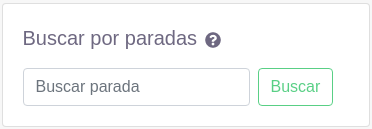
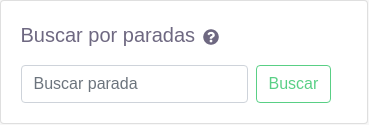
update changes

diff --git a/src/pages/Documentacao/index.js b/src/pages/Documentacao/index.js
@@ -26,10 +26,10 @@ export default function Documentacao(){
                     <ul style={{
                         margin: 10
                     }}>
-                        <li>Buscar por linhas: informando o número da linha ou o nome do terminal principal ou secundário neste campo, o usuário é direcionado para /linhas.</li>
+                        <li>Buscar por linhas: informando o número da linha ou o nome do terminal principal ou secundário neste campo, o usuário é direcionado para /linhas. Nessa rota, as linhas serão listadas e, ao clicar em uma delas, todas as paradas atendidas por ela são informadas.</li>
                         <Image style={{
                             marginTop: 20,
-                            marginBottom: 20 
+                            marginBottom: 20,
                         }} fluid src={buscarLinhas}/>
                         <li>Buscar por paradas: informando o nome ou endereço da parada, o usuário é direcionado para /paradas, onde terá acesso a uma lista de paradas filtradas pela informação pela qual ele buscou. O usuária ainda será capaz de fazer um filtro na lista gerada digitando o nome ou edereço da parada no campo localizado acima da lista.</li>
                         <Image style={{
@@ -56,7 +56,7 @@ export default function Documentacao(){
                             marginTop: 20,
                             marginBottom: 20 
                         }} fluid src={buscarparada}/>
-                        <li>Calcular previsão de chegada: ao buscar pelo nome ou endereço da parada, as paradas correspondentes a esse filtro serão exibidas no mapa. Clicando no ícone da parada no mapa, será mostrado o nome da parada, se houver. O usuário também pode buscar paradas por linha ou corredor, clicando no botão "filtrar". Ao clicar em ocultar, as paradas serão ocultadas do mapa e clicando novamente serão exibidas. O botão deletar exclui a busca.</li>
+                        <li>Calcular previsão de chegada: aqui, há duas possibilidades: buscar a previsão de chegada de todos os ônibus em uma determinada parada (Selecionar por parada) ou buscar apenas os ônibus de uma determinada linha (Selecionar por parada e linha). Selecionando uma das opções e fornecendo corretamente os dados de busca, o usuário verá no mapa a posição da parada e de cada ônibus no horário da atualização. As posições atualizam a cada 30 segundos ou quando o botão de atualizar é acionado. O botão deletar limpa as informações da busca. Clicando no ícone do ônibus no mapa, serão mostradas as informações daquele ônibus e linha e o horário previsto para chegar na parada.</li>
                         <Image style={{
                             marginTop: 20,
                             marginBottom: 20 
@@ -65,10 +65,15 @@ export default function Documentacao(){
                 <p></p>
                 <h3>Componentização</h3>                
                 <p>A seguir são detalhados os principais componentes da aplicação.</p>
+                <h4>Base</h4>
                 <Image style={{
                             marginTop: 20,
                             marginBottom: 20 
                         }} fluid src={comp1}/>
+                <h4>Pages</h4>
+                <h4>Layouts</h4>
+                <h4>Services</h4>
+                
                 <Image style={{
                             marginTop: 20,
                             marginBottom: 20 

diff --git a/src/pages/Home/components/Informacoes/index.js b/src/pages/Home/components/Informacoes/index.js
@@ -14,10 +14,11 @@ export default function Informacoes() {
                 <JumbotronComponent/>
          
                 <Row style={{
-                    width: "100%",             
+                    width:"100%"
                 }}>
                 <Col
-                    md={4}
+                    lg={4}
+                    md={12}
                     sm={12}
                 >
                 <CardSearch
@@ -29,7 +30,8 @@ export default function Informacoes() {
                 />
                 </Col>
                 <Col
-                    md={4}
+                    lg={4}
+                    md={12}
                     sm={12}
                 >
                 <CardSearch
@@ -41,7 +43,8 @@ export default function Informacoes() {
                 />
                 </Col>
                 <Col
-                    md={4}
+                    lg={4}
+                    md={12}
                     sm={12}
                 >
                 <CardDropdown

diff --git a/src/pages/Home/components/Mapa/components/BuscarOnibus/components/Map/index.js b/src/pages/Home/components/Mapa/components/BuscarOnibus/components/Map/index.js
@@ -1,11 +1,23 @@
-import React from 'react';
+import React, { useEffect, useRef } from 'react';
 import { Map, TileLayer } from 'react-leaflet';
 import Veiculos from './components/Veiculos';
 
 export default function MapComponent(props) {
     const { veiculos } = props;
+
+    const mapRef = useRef();
+    const didMountRef = useRef(false) 
+    useEffect(() => {
+        if (didMountRef.current) { 
+        if (mapRef.current) {
+            mapRef.current.leafletElement.invalidateSize(false);
+        }
+        } 
+        else didMountRef.current = true
+    })
+
     return (
-        <Map center={[-23.692865, -46.77835]} zoom={12} >
+        <Map center={[-23.692865, -46.77835]} zoom={12} ref={mapRef} >
             <TileLayer
                 attribution='&amp;copy <a href="http://osm.org/copyright">OpenStreetMap</a> contributors'
                 url="https://{s}.tile.openstreetmap.org/{z}/{x}/{y}.png"

diff --git a/src/pages/Corredores/index.js b/src/pages/Corredores/index.js
@@ -25,7 +25,7 @@ export default function Corredores(props) {
     function onChange(e){
         setValue(e.target.value);
         if (e.target.value.length > 0) {
-            setFiltro(paradas.filter(item => { return item.np.match(e.target.value) || item.ed.toLowerCase().match(e.target.value.toLowerCase()) || String(item.cp).match(e.target.value) }))
+            setFiltro(paradas.filter(item => { return item.np.toLowerCase().match(e.target.value.toLowerCase()) || item.ed.toLowerCase().match(e.target.value.toLowerCase()) || String(item.cp).match(e.target.value) }))
         } else {
             setFiltro(paradas);
         }

diff --git a/public/index.html b/public/index.html
@@ -3,7 +3,7 @@
   <head>
     <meta charset="utf-8" />
     <link rel="icon" href="%PUBLIC_URL%/favicon.ico" />
-    <meta name="viewport" content="width=device-width, initial-scale=1" />
+    <meta name="viewport" content="width=device-width, initial-scale=1, maximum-scale=1, user-scalable=no" />
     <meta name="theme-color" content="#000000" />
     <link rel="stylesheet" href="https://unpkg.com/leaflet@1.6.0/dist/leaflet.css"
     integrity="sha512-xwE/Az9zrjBIphAcBb3F6JVqxf46+CDLwfLMHloNu6KEQCAWi6HcDUbeOfBIptF7tcCzusKFjFw2yuvEpDL9wQ=="

diff --git a/src/pages/Home/components/Informacoes/components/CardSearch/index.js b/src/pages/Home/components/Informacoes/components/CardSearch/index.js
@@ -56,7 +56,6 @@ export default function CardSearch(props) {
                 <FormControl
                     type="text"
                     placeholder={placeholder}
-                    className="mr-sm-2"
                     value={value}
                     onChange={(e) => {
                         setValue(e.target.value)

diff --git a/src/pages/Home/components/Informacoes/styles.css b/src/pages/Home/components/Informacoes/styles.css
@@ -1,4 +1,4 @@
-@media only screen and (min-width:768px){
+@media only screen and (min-width:1024px){
     .card-container,.cardDrop-container{
         width: 23rem;
     }

diff --git a/src/App.css b/src/App.css
@@ -1,6 +1,5 @@
 :root {
   --primary-color: #34CB79;
-  --title-color: #322153;
   --text-color: #6C6C80;
 }
 
